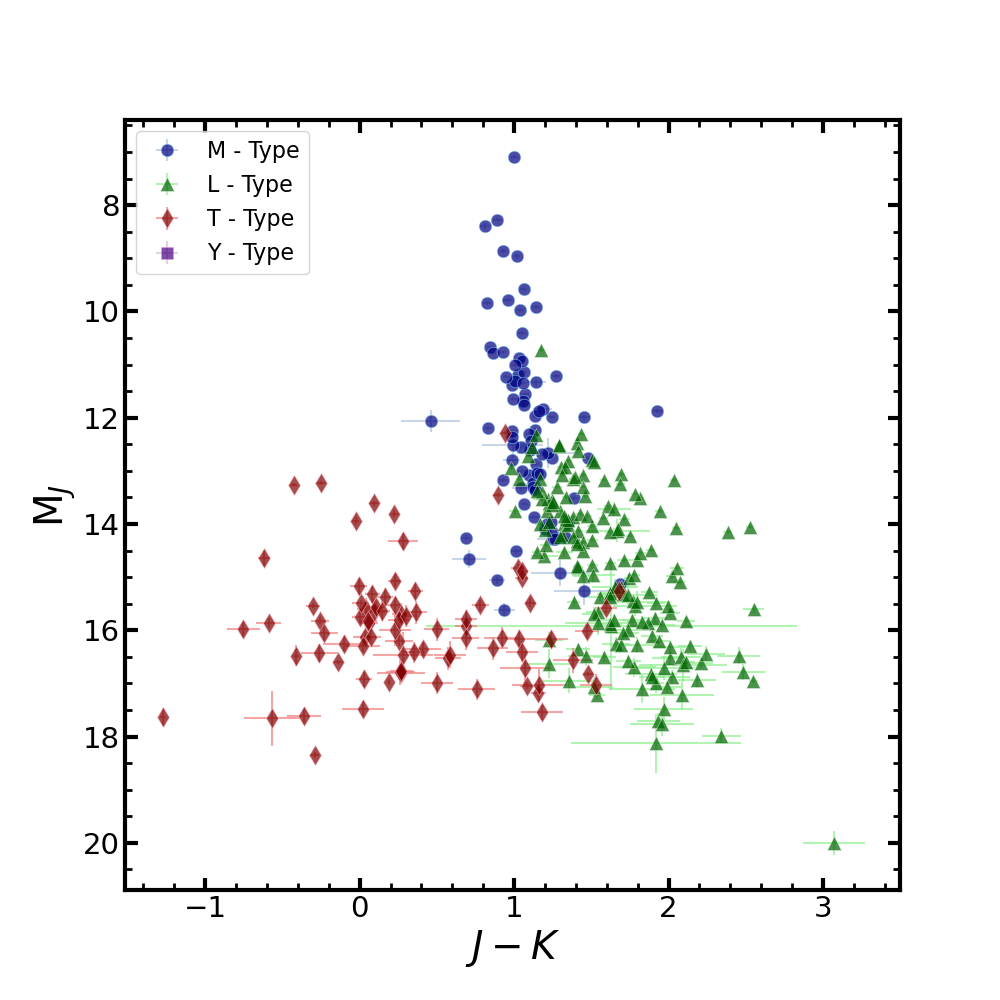
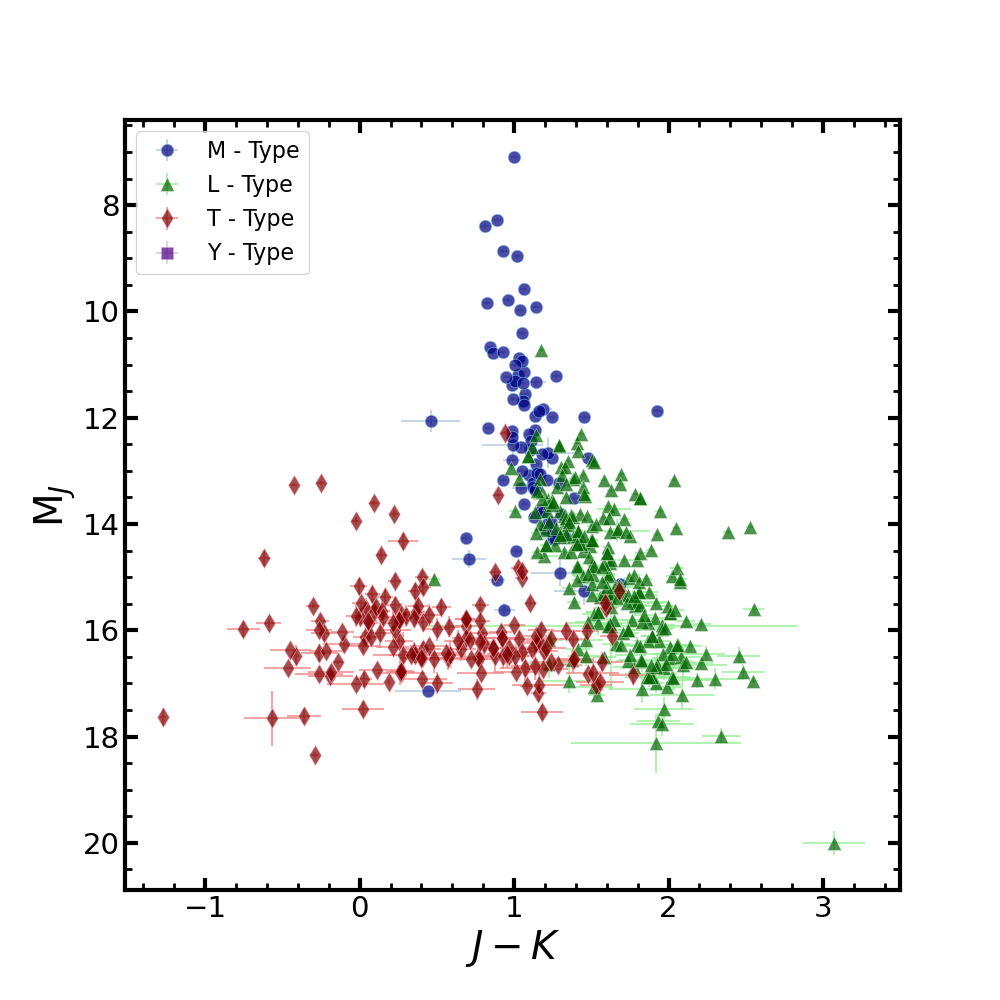
Updated Best file with 2MASS data

Changed region(s): [[0.279, 0.465, 0.713, 0.713], [0.372, 0.527, 0.403, 0.558]]

diff --git a/main.py b/main.py
@@ -92,7 +92,7 @@ def fileanalysis(photometry="MKO"):
     # Read data file
     with fits.open("vlm-plx-all.fits") as browndwarflist:
         data = browndwarflist[1].data
-        hdr = browndwarflist[1].header
+        #hdr = browndwarflist[1].header
         
     # Setting variables from fits file
     objnames = data["NAME"]
@@ -217,66 +217,60 @@ def fileanalysis(photometry="MKO"):
 
     # Add Best data if 2MASS
     if photometry == "2MASS":
-        bestdata = np.loadtxt("best95list.txt", dtype=str, delimiter=";", skiprows=2)
+        bestdata = np.loadtxt("bestmatcheddata.csv", dtype=str, delimiter=",", skiprows=1)
 
-        bestjmag = np.array(bestdata[:,7])
-        bestjmag = np.where(bestjmag=="null", np.nan, bestjmag).astype('float64')
+        bestjmag = np.array(bestdata[:,10])
+        bestjmag = np.where(bestjmag=="", np.nan, bestjmag).astype('float64')
 
-        bestkmag = np.array(bestdata[:,8])
-        bestkmag = np.where(bestkmag=="null", np.nan, bestkmag).astype('float64')
+        bestkmag = np.array(bestdata[:,14])
+        bestkmag = np.where(bestkmag=="", np.nan, bestkmag).astype('float64')
+
+        bestjerror = np.array(bestdata[:, 11])
+        bestjerror = np.where(bestjerror=="", np.nan, bestjerror).astype('float64')
+
+        bestkerror = np.array(bestdata[:, 15])
+        bestkerror = np.where(bestkerror=="", np.nan, bestkerror).astype('float64')
 
         bestjkmag = bestjmag - bestkmag
+        bestjkerror = np.sqrt(bestjerror**2 + bestkerror**2)
 
         bestspectype = np.array(bestdata[:,9])
 
-        bestplusj = np.array([])
-        bestplusjk= np.array([])
-        bestplusspec = np.array([])
-
-        for ispec in range(len(bestspectype)):
-            if '+' not in bestspectype[ispec]:
-                bestplusj = np.append(bestplusj, bestjmag[ispec])
-                bestplusjk = np.append(bestplusjk, bestjkmag[ispec])
-                bestplusspec = np.append(bestplusspec, bestspectype[ispec])
-
-        # comment is red
-        bestjerror = np.zeros(len(bestplusj))
-        bestjkerror = np.zeros(len(bestplusj))
         
         # Sort data into spectral types
-        for ispec in range(len(bestplusspec)):
-            if "M" in bestplusspec[ispec]:
-                m_jmag.append(bestplusj[ispec])
-                m_jkmag.append(bestplusjk[ispec])
+        for ispec in range(len(bestspectype)):
+            if "M" in bestspectype[ispec]:
+                m_jmag.append(bestjmag[ispec])
+                m_jkmag.append(bestjkmag[ispec])
                 m_jmagerror.append(bestjerror[ispec])
                 m_jkmagerror.append(bestjkerror[ispec])
-                m_spec.append(bestplusspec[ispec])
+                m_spec.append(bestspectype[ispec])
                 #print(spectype[ispec])
 
-            elif "L" in bestplusspec[ispec]:
-                l_jmag.append(bestplusj[ispec])
-                l_jkmag.append(bestplusjk[ispec])
+            elif "L" in bestspectype[ispec]:
+                l_jmag.append(bestjmag[ispec])
+                l_jkmag.append(bestjkmag[ispec])
                 l_jmagerror.append(bestjerror[ispec])
                 l_jkmagerror.append(bestjkerror[ispec])
                 #print(spectype[ispec])
 
-            elif "T" in bestplusspec[ispec]:
-                t_jmag.append(bestplusj[ispec])
-                t_jkmag.append(bestplusjk[ispec])
+            elif "T" in bestspectype[ispec]:
+                t_jmag.append(bestjmag[ispec])
+                t_jkmag.append(bestjkmag[ispec])
                 t_jmagerror.append(bestjerror[ispec])
                 t_jkmagerror.append(bestjkerror[ispec])
                 #print(spectype[ispec])
 
-            elif "Y" in bestplusspec[ispec]:
-                y_jmag.append(bestplusj[ispec])
-                y_jkmag.append(bestplusjk[ispec])
+            elif "Y" in bestspectype[ispec]:
+                y_jmag.append(bestjmag[ispec])
+                y_jkmag.append(bestjkmag[ispec])
                 y_jmagerror.append(bestjerror[ispec])
                 y_jkmagerror.append(bestjkerror[ispec])
                 #print(spectype[ispec])
 
             else:
-                null_jmag.append(bestplusj[ispec])
-                null_jkmag.append(bestplusjk[ispec])
+                null_jmag.append(bestjmag[ispec])
+                null_jkmag.append(bestjkmag[ispec])
                 null_jmagerror.append(bestjerror[ispec])
                 null_jkmagerror.append(bestjkerror[ispec])
     
@@ -286,7 +280,7 @@ def fileanalysis(photometry="MKO"):
     t = np.vstack((t_jmag, t_jkmag, t_jmagerror, t_jkmagerror)).T
     y = np.vstack((y_jmag, y_jkmag, y_jmagerror, y_jkmagerror)).T
     
-    #cmdplot(m, l, t, y, overplot)
+    #cmdplot(m, l, t, y, overplot, photometry)
     cmdplot(m, l, t, y, photometry)
 
     return
